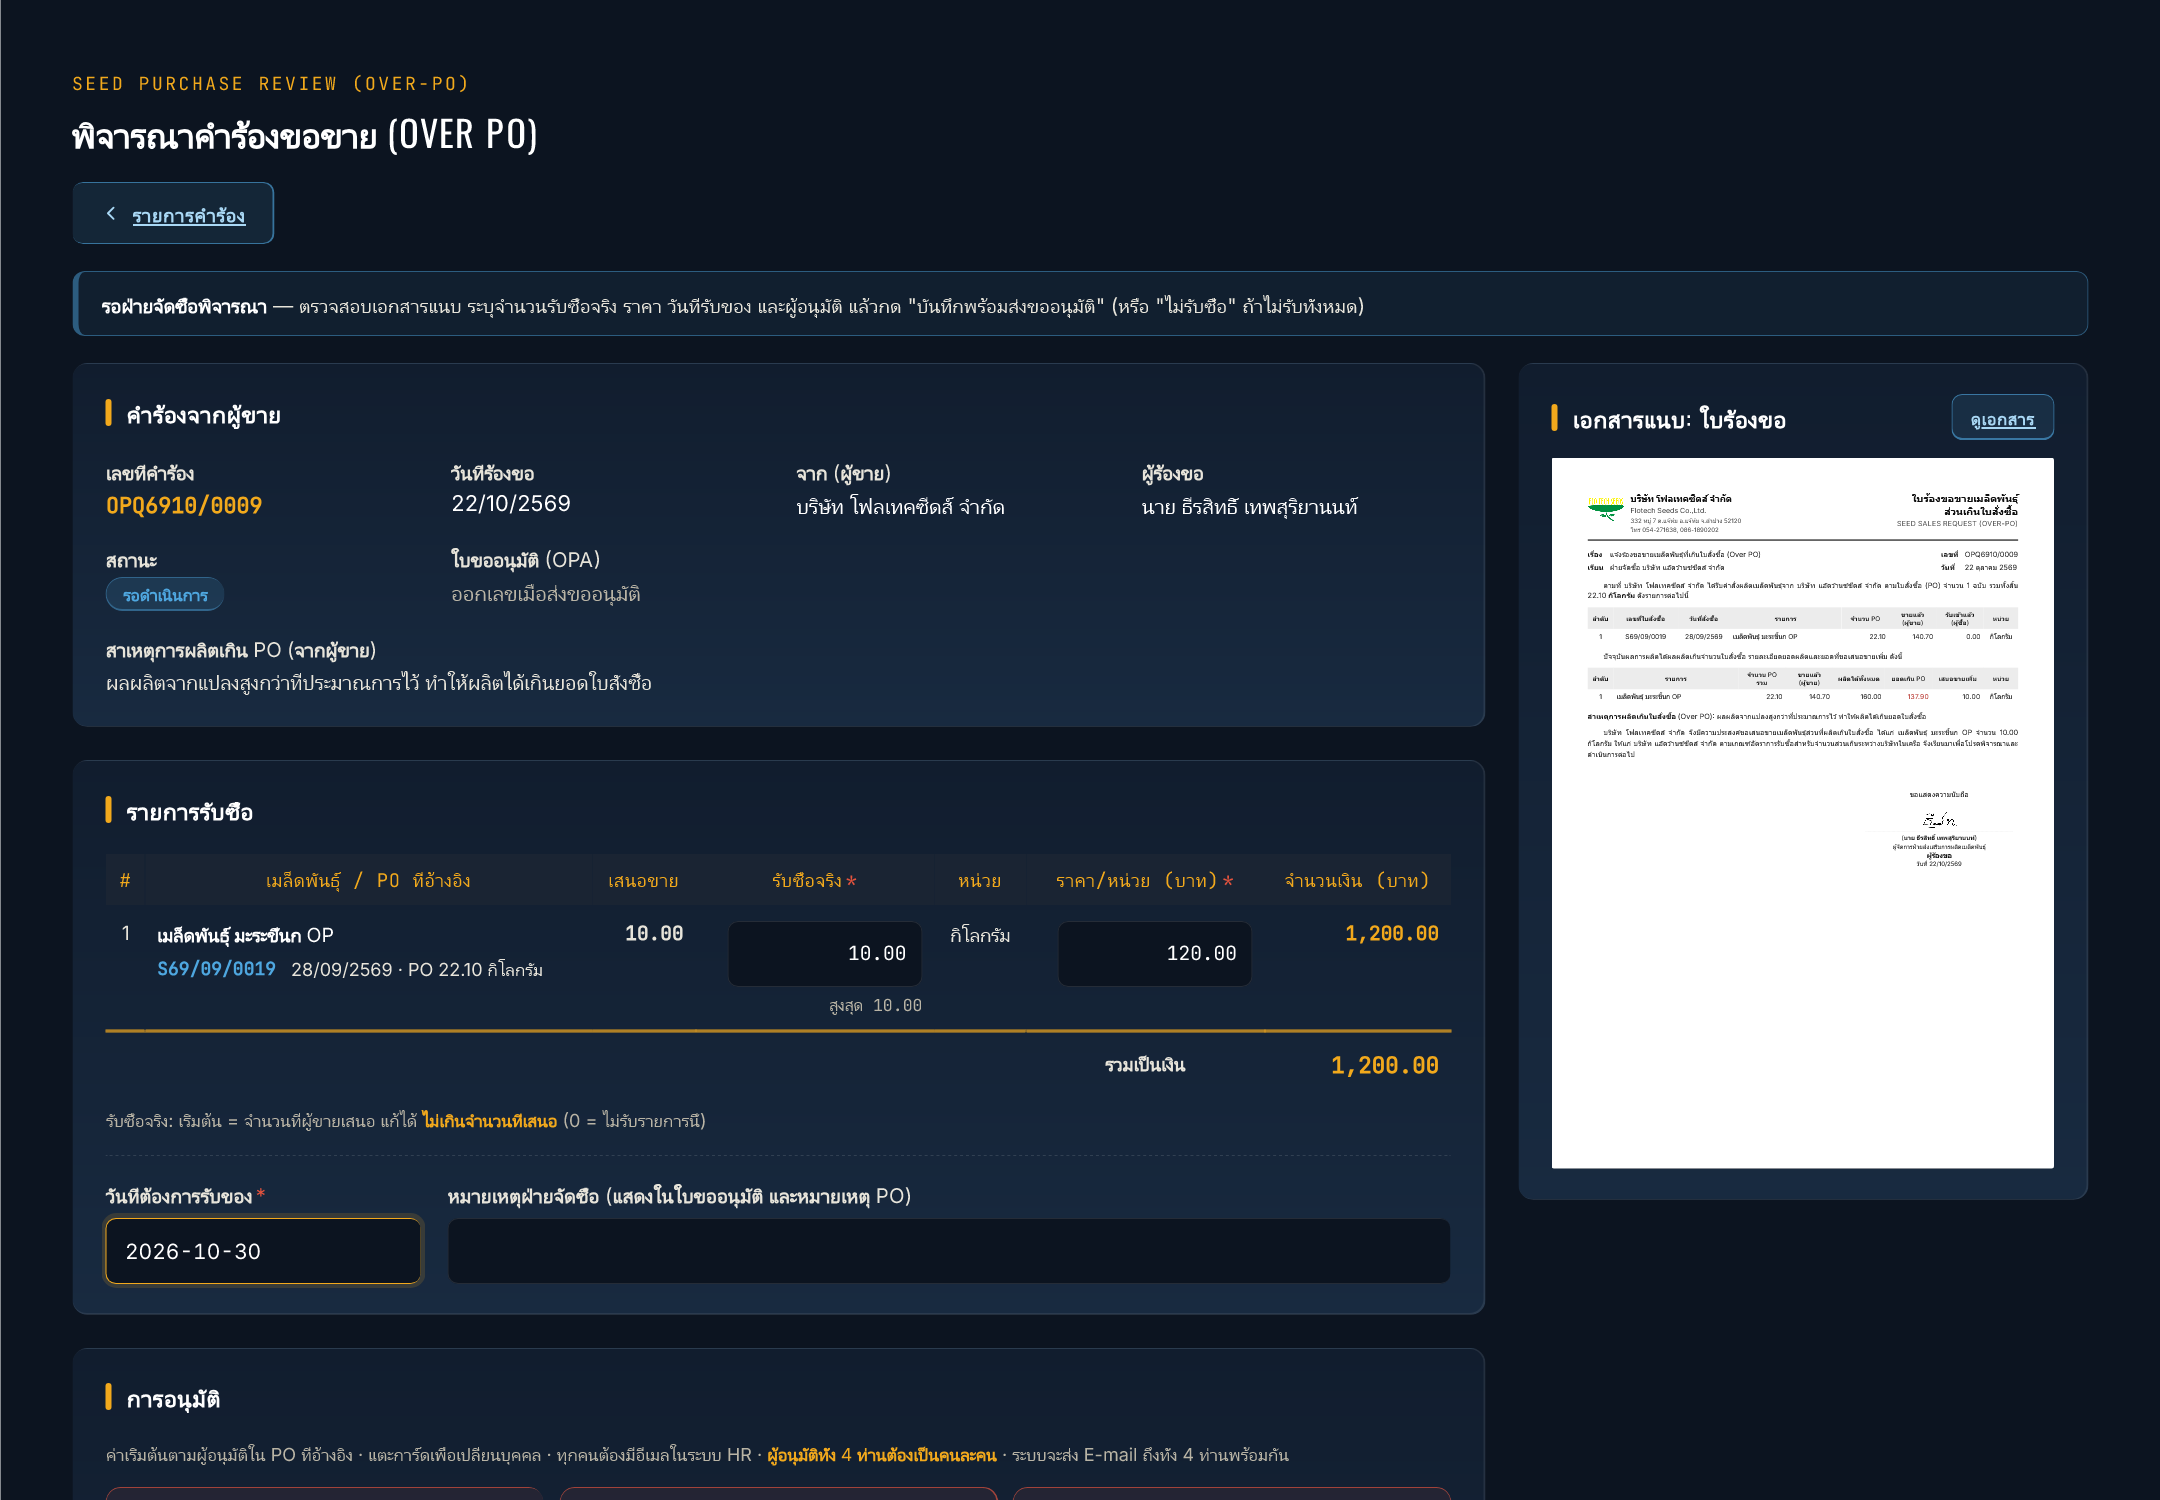
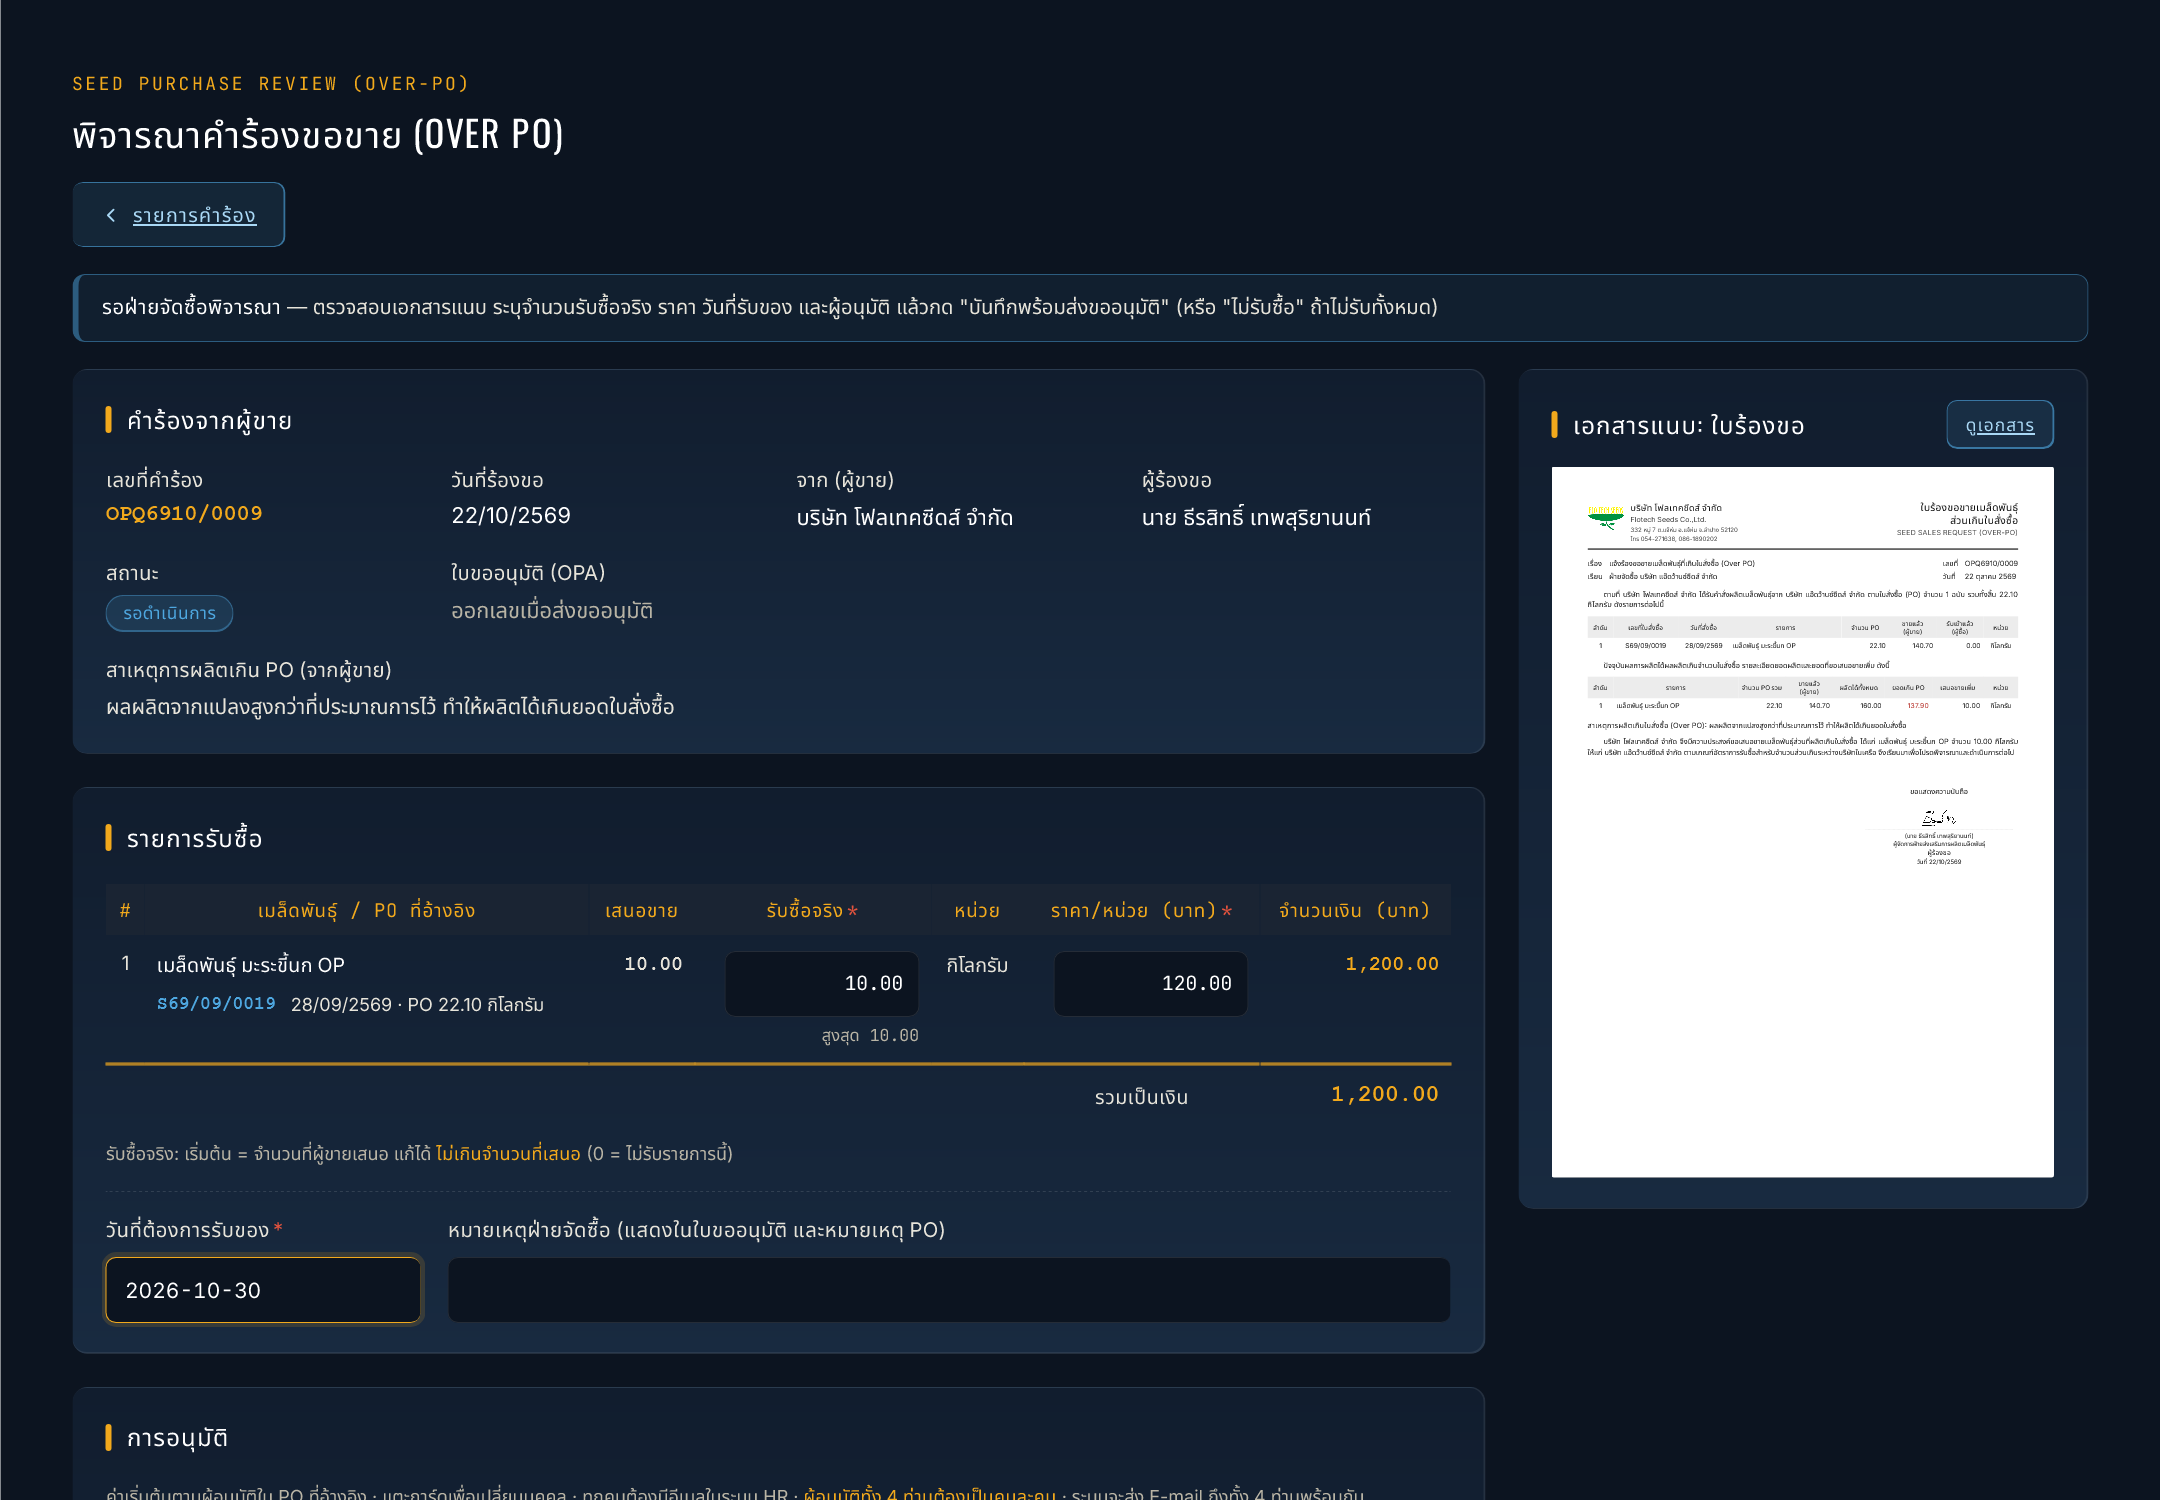
Manual screenshots: Noto Sans Thai for Thai glyphs (fix tone marks e.g. ตั้น)

diff --git a/tools/manual-shots/mk.js b/tools/manual-shots/mk.js
@@ -120,7 +120,12 @@ async function go(page, url, { user, doc: d, pending = [], docs = [], poLines = 
   });
   await page.goto('http://localhost:3994' + url, { waitUntil: 'networkidle' });
   await page.waitForTimeout(1500);
-  await page.addStyleTag({ content: '.dry-note, .test-banner{display:none !important}' });
+  // ฟอนต์ไทยสำรองของ WebKit บน Windows (Leelawadee) วางสระ/วรรณยุกต์ซ้อนกันผิด เช่น "ตั้น" กลายเป็น "ต้น" → ให้อักษรไทยใช้ Tahoma (ถูกต้อง) ส่วนอักษรละตินยังใช้ฟอนต์ของหน้าตามเดิม
+  const NOTO_THAI = 'https://fonts.gstatic.com/s/notosansthai/v29/iJWQBXeUZi_OHPqn4wq6hQ2_hbJ1xyN9wd43SofNWcdfKI2hX2g.woff2';   // Noto Sans Thai (ชุดอักษรไทย) — วรรณยุกต์ซ้อนสระถูกต้อง
+  const thaiFix = ['Inter', 'Oswald', 'JetBrains Mono'].map(f => `@font-face{font-family:'${f}'; font-weight:100 900; src:url(${NOTO_THAI}) format('woff2'); unicode-range:U+0E01-0E5B,U+200C-200D,U+25CC;}`).join('');
+  await page.addStyleTag({ content: '.dry-note, .test-banner{display:none !important}' + thaiFix });
+  await page.evaluate(() => document.fonts.ready);
+  await page.waitForTimeout(300);
 }
 async function paper(page) { const el = await page.$('#docPaper, .paper-fit, .paper'); return el.screenshot({ type: 'png' }); }
 async function top(page, h) { const m = await page.$('main'); const b = await m.boundingBox(); return page.screenshot({ type: 'png', clip: { x: b.x, y: Math.max(0, b.y - 12), width: b.width, height: Math.min(h, b.height + 24) } }); }
